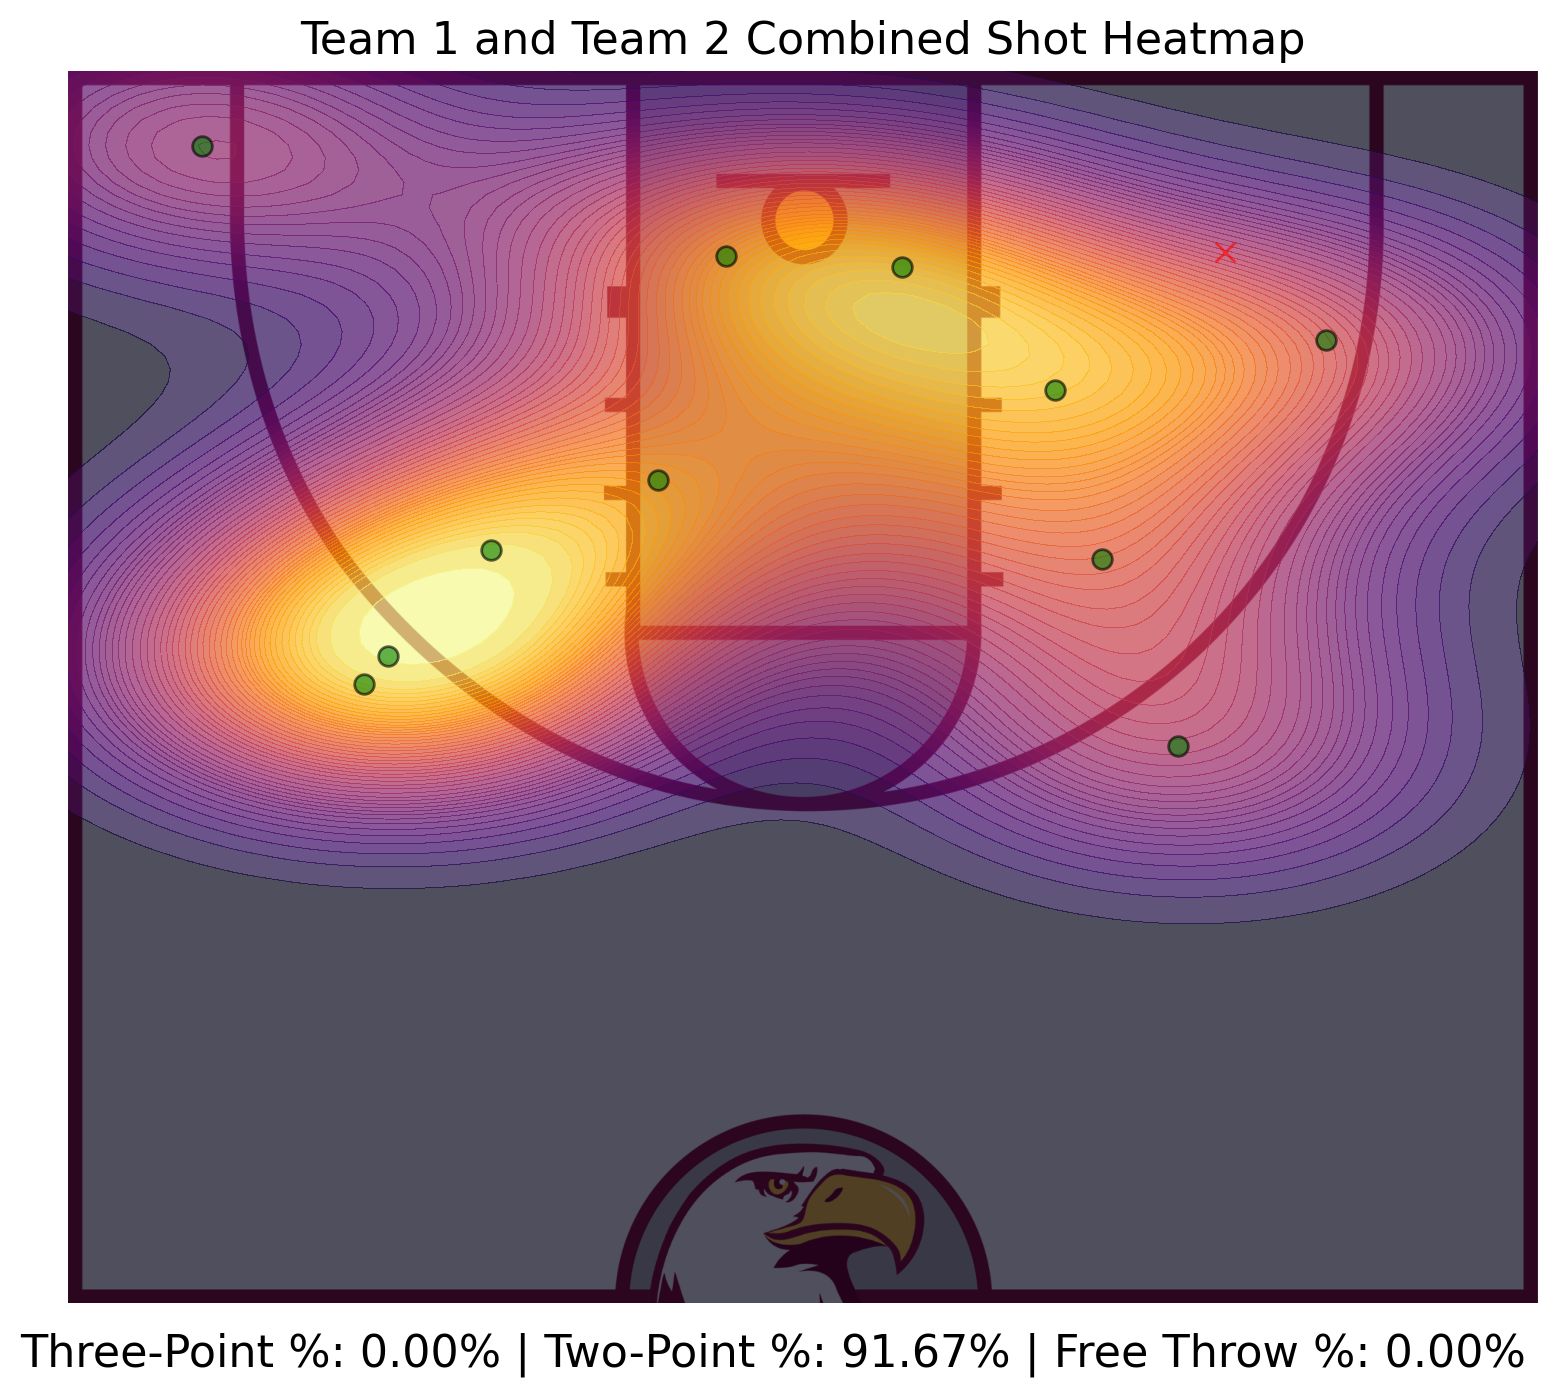
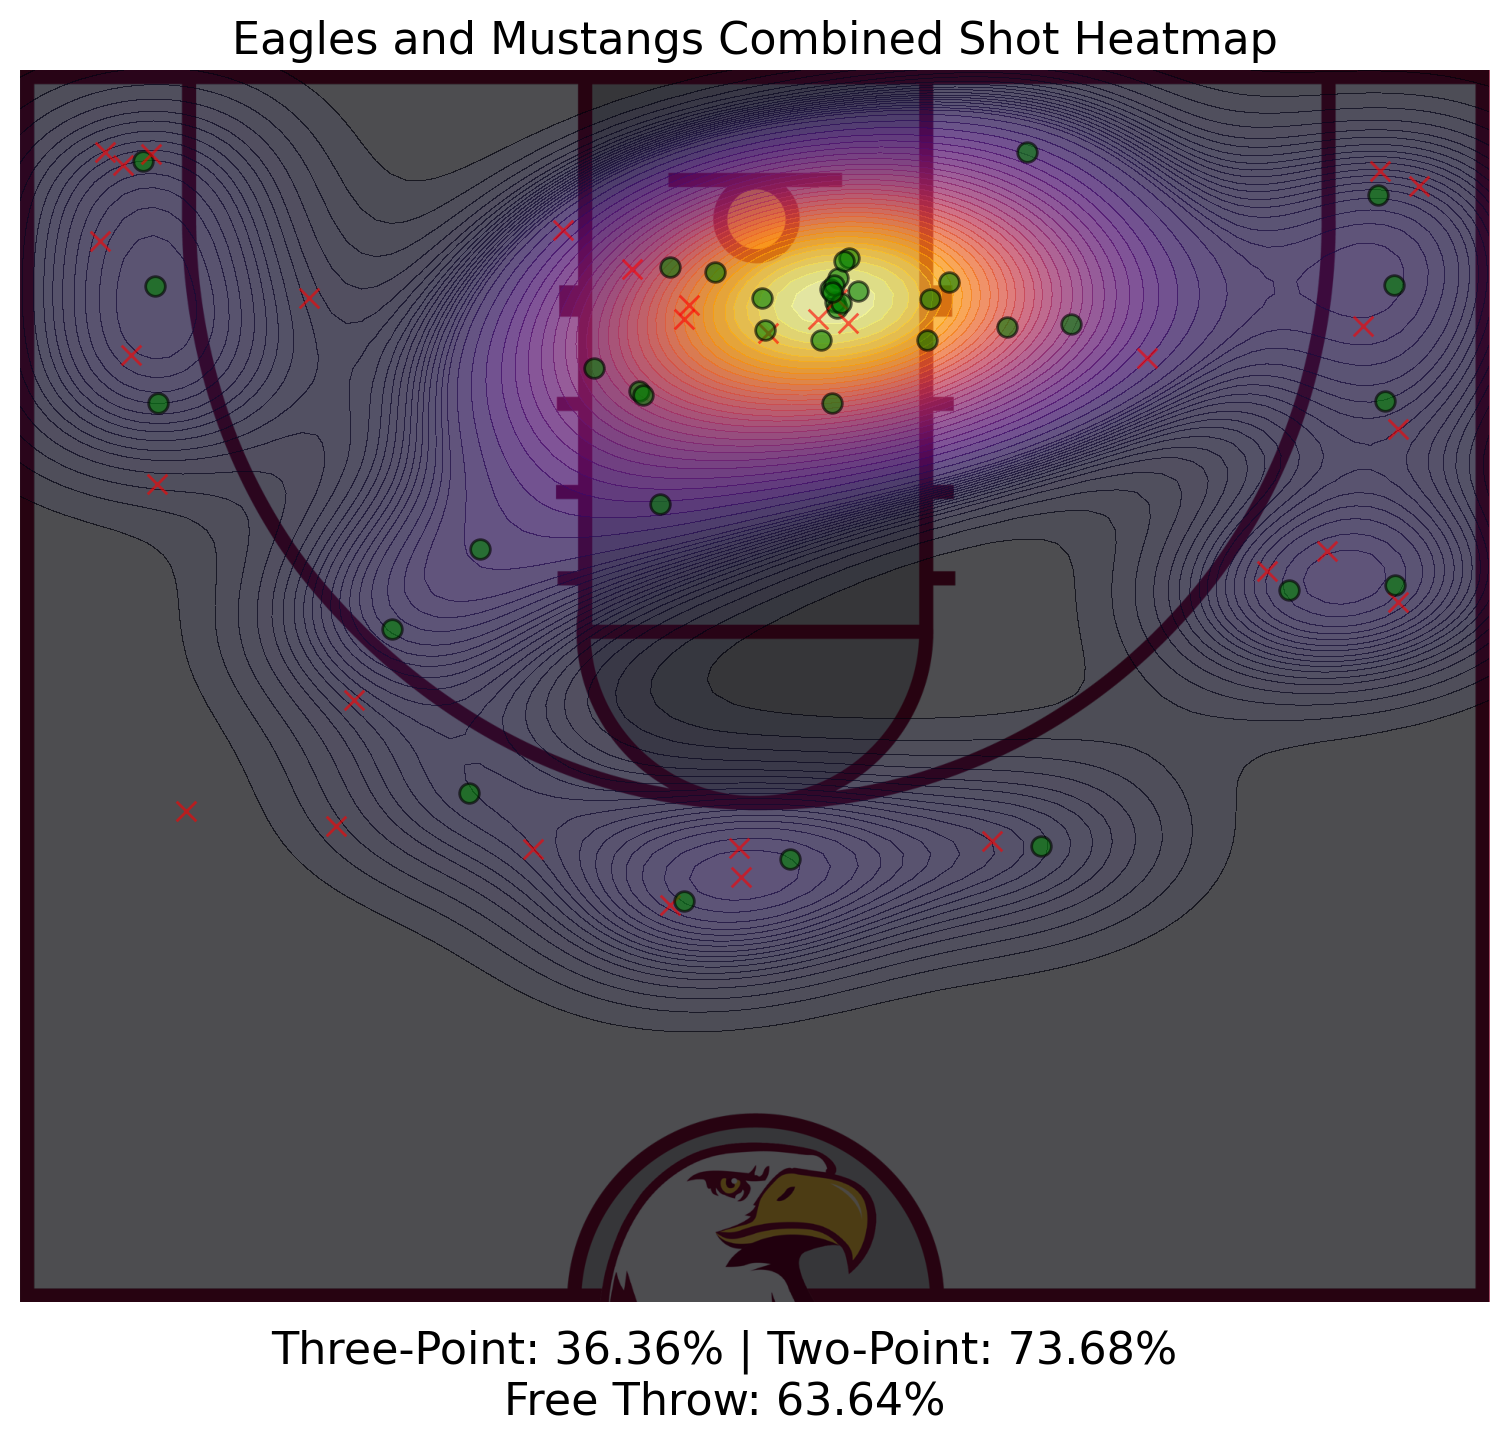
Girls vs Mustangs

diff --git a/heatmap.py b/heatmap.py
@@ -146,7 +146,7 @@ def create_heatmap(shot_positions, shot_made, team_name, team_num, percentages, 
 
     # Add text for percentages below the graph
     three_percentage, two_percentage, free_percentage = percentages
-    fig.text(0.5, 0.04, f'Three-Point %: {three_percentage:.2f}% | Two-Point %: {two_percentage:.2f}%\nFree Throw %: {free_percentage:.2f}%', color='black', fontsize=16, ha='center')
+    fig.text(0.5, 0.04, f'Three-Point: {three_percentage:.2f}% | Two-Point: {two_percentage:.2f}%\nFree Throw: {free_percentage:.2f}%', color='black', fontsize=16, ha='center')
 
     # Add player names below the percentages if provided
     if player_names:
